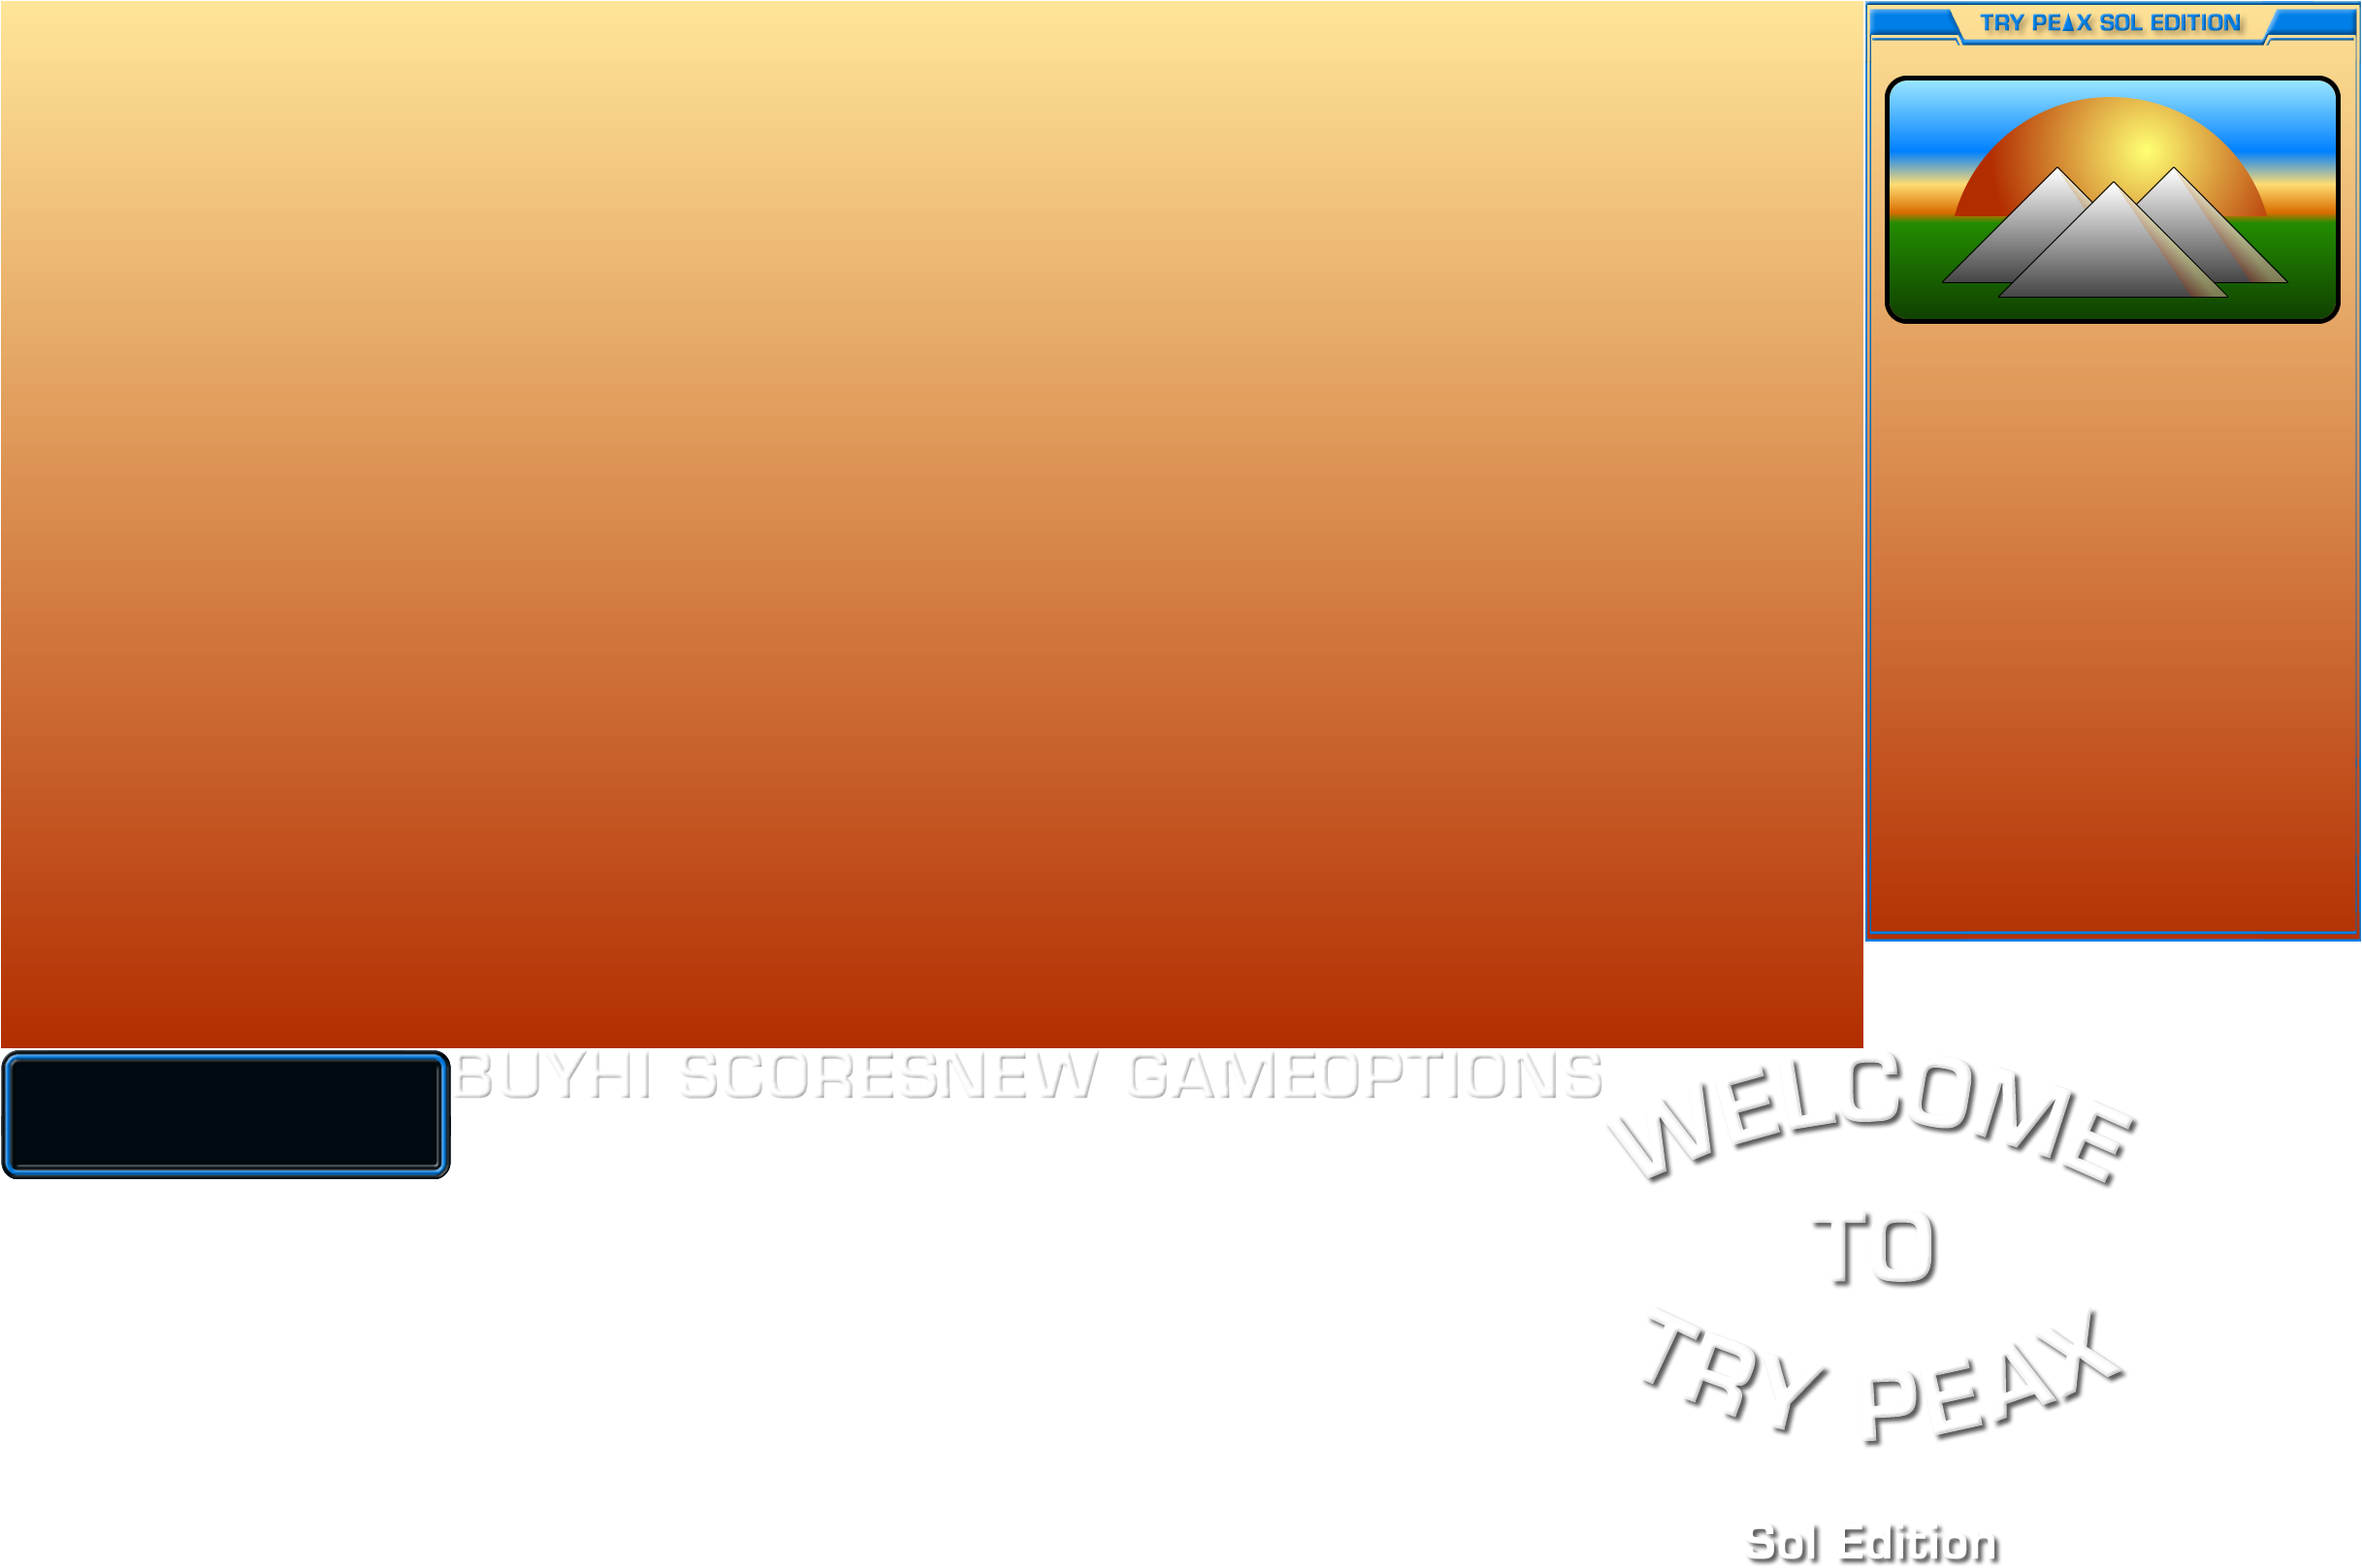
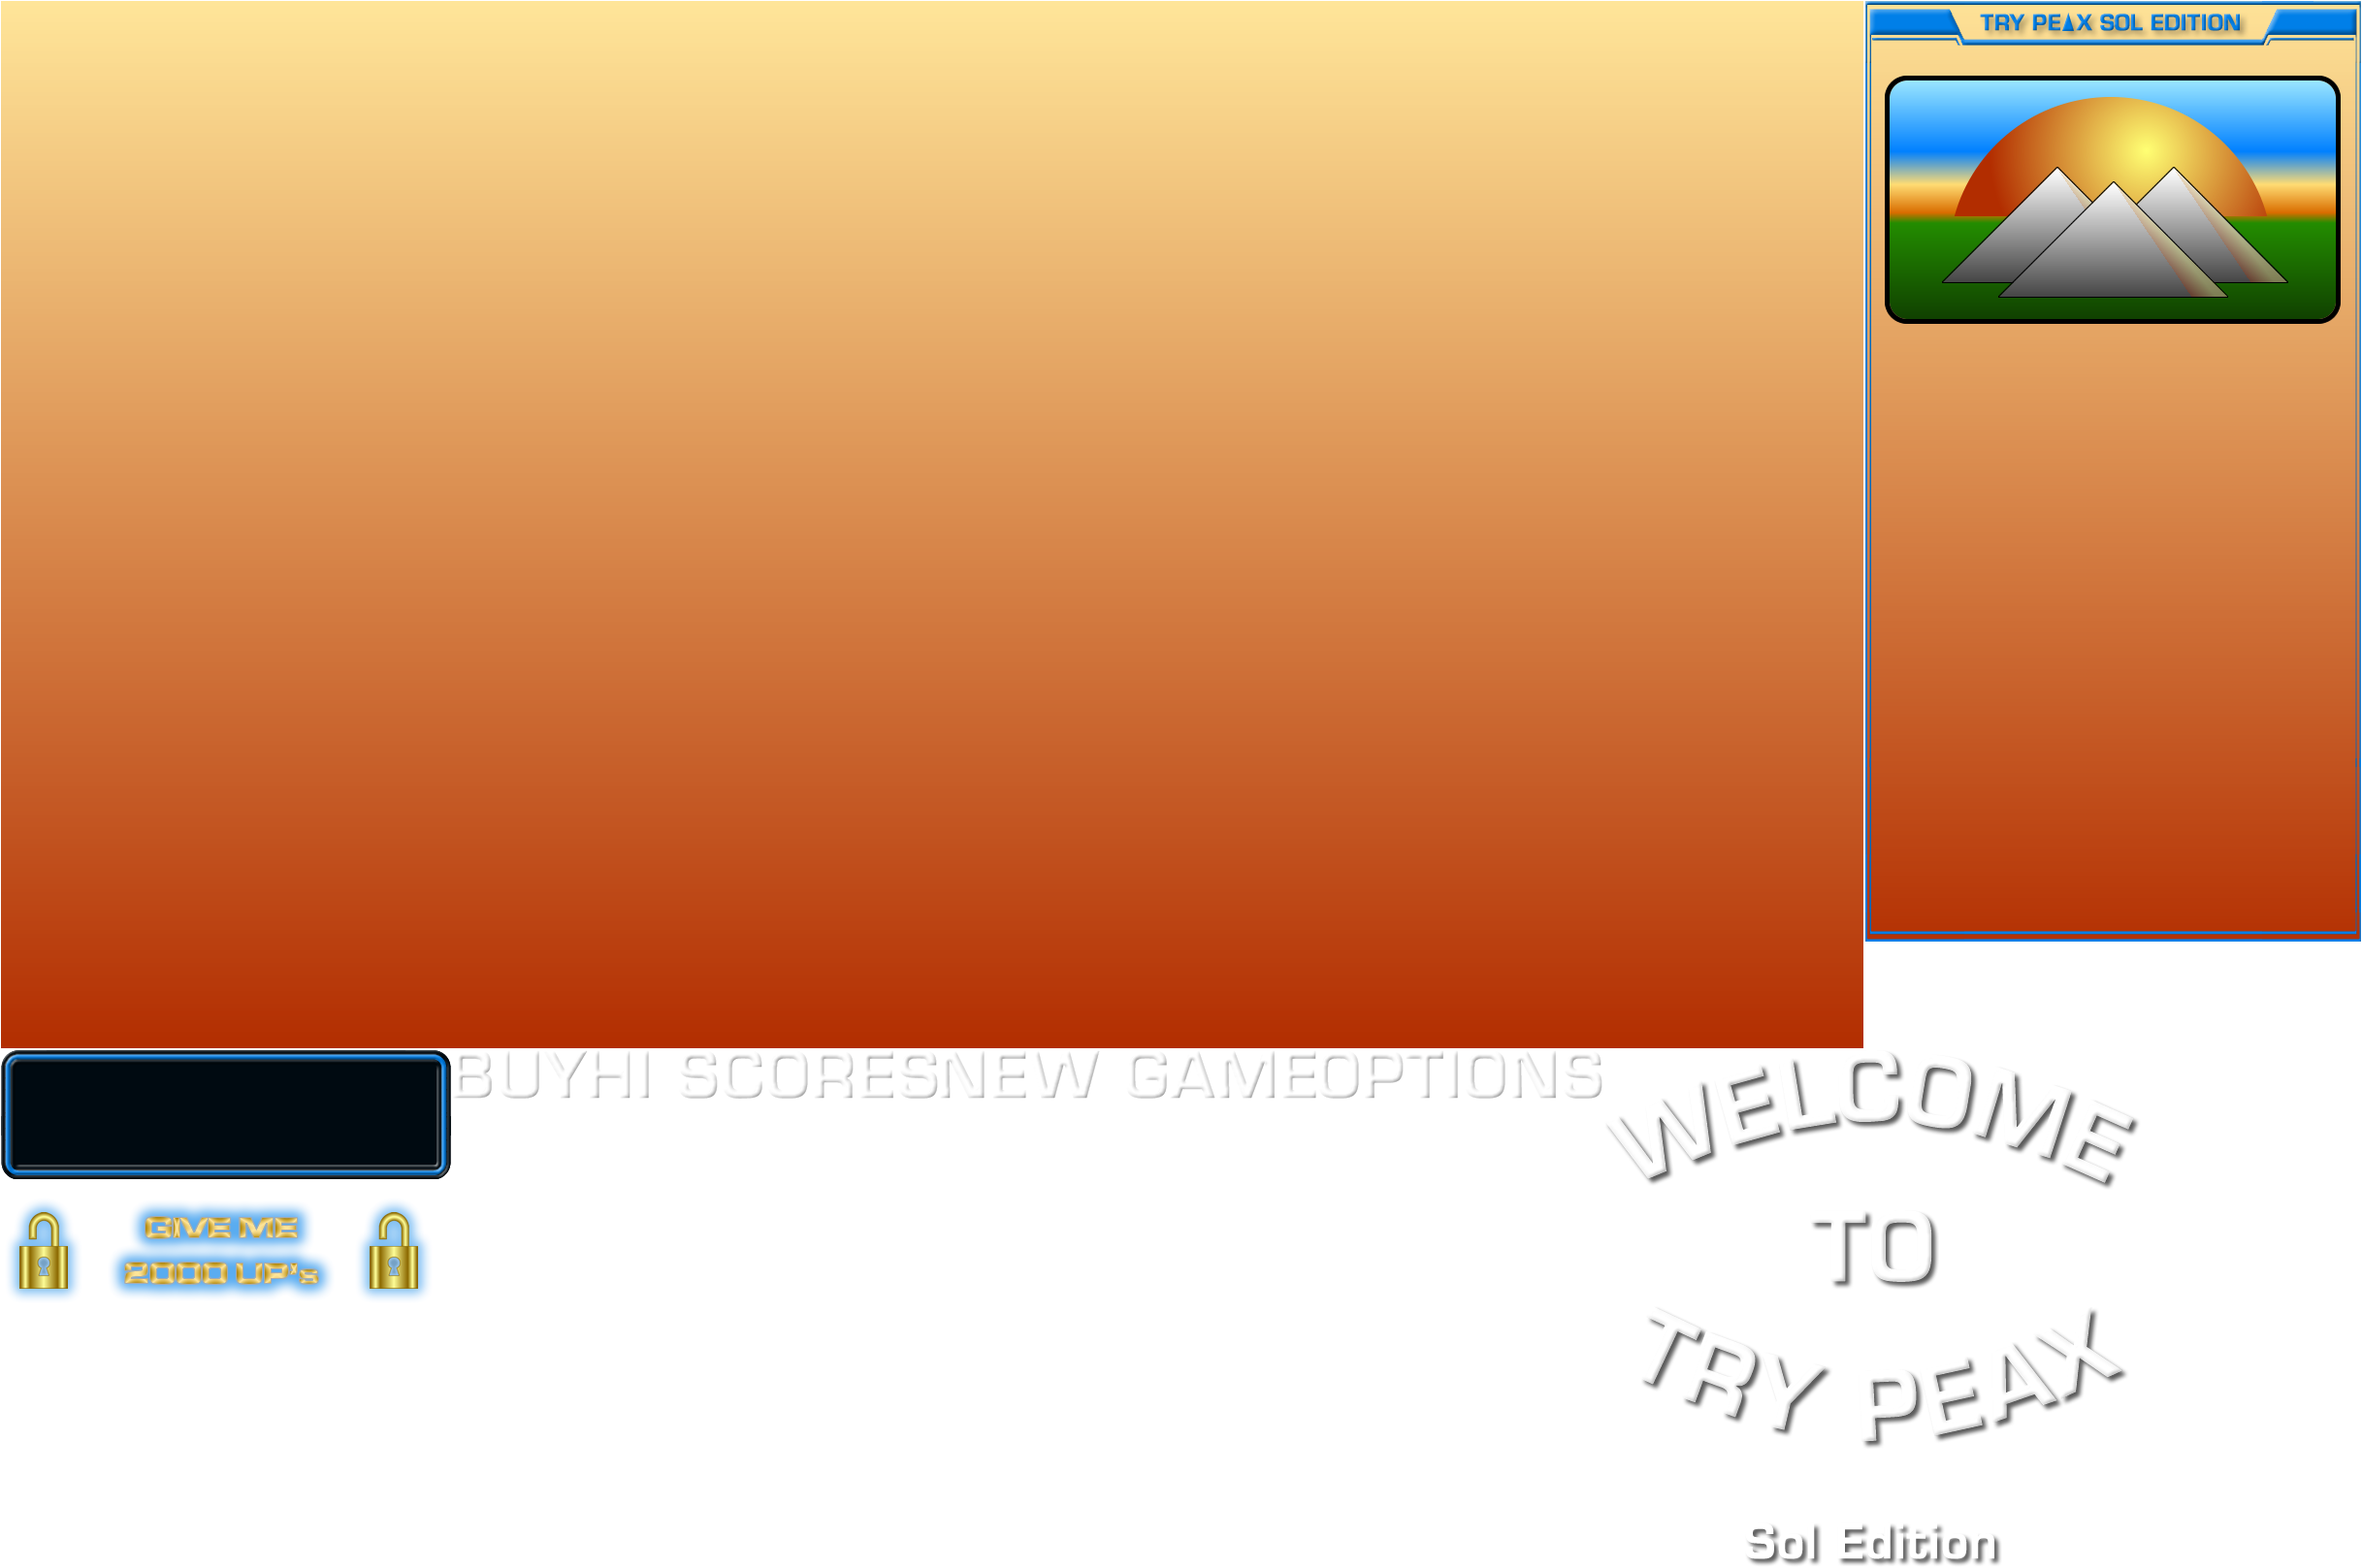
Rev 082

Changed region(s): [[0.0, 0.7421, 0.1873, 0.8349]]

diff --git a/js/vars.js b/js/vars.js
@@ -1,7 +1,7 @@
 "use strict";
 var vars = {
     version: 0.99,
-    revision: 'rev 077.008',
+    revision: 'rev 082.008',
     // rev [aaa].[bbb] where [bbb] is the sub revision with regards to speeding up the game on phones
     revisionInfo: [
         'Beta State: Unlocks are now fully set up. Still to implement switching card sets. Tints work though :)',
@@ -74,6 +74,10 @@ var vars = {
         'Revision 076   - Added lS function to generate unlock id',
         'Revision 077   - Added animated buttons (prev/next) on high score page',
         'Revision 078   - Fixed minor bug when dealing with cursor keys',
+        'Revision 079   - The vanity screen was originally going to have a colour fade on the white parts of the logo. But, phones really dont like updating the hue every frame. So, its been replaced with a new shiny gold and silver logo :)',
+        'Revision 080   - Added the options screens main buttons to the list of availables so I can enable closing the options page with the escape key',
+        'Revision 081   - Escape key works on all pages apart from mainScreen.',
+        'Revision 082   - Left and right keys now works on all pages with multiple sub pages (unlockeds/unlocks, hs)',
 
         'SPEED UP REVISIONS (mainly for phones)',
         'Revision 001   - Started speeding everything up. Removed crossfades for phones as theyre pretty slow',
@@ -1691,16 +1695,24 @@ var vars = {
                 console.log(`%cEscaped pressed...`, 'color: #44b5cc');
                 let onTop = vars.input.cursor.getCurrentlyOnTop();
                 if (onTop==='highScoreTable') { // high score table visible, hide it
-                    console.log(`  > Hiding high score table`);
-                    // we have to figure out why the high score table is visible
-                    // was it due to looping?
-                    // was it after the player got a high score?
-                    // was it because the player specifically asked for the high score table? -> back to mainScreen
+                    vars.DEBUG ? console.log(`  > Hiding high score table`) : null;
+                    let gameObject = vars.containers.getByName(onTop).getByName('close_HSTB');
+                    vars.input.highScoreTableButtonClick(gameObject);
+                    return true;
                 } else if (onTop==='gamePlayingUI') {
                     console.log(`  > Asking player if they want to go home (main screen)`);
                 } else if (onTop.startsWith('scroller_')) {
                     console.log(`  > Hiding the scroller`);
+                    // this should be a check! TODO
+                    vars.scrollers.available.Rules.click(`SCRL_close`);
+                    return true;
+                } else if (onTop==='optionsScreen') {
+                    let gO = { name: 'options_close'};
+                    vars.input.optionsClick(gO);
+                    return true;
                 };
+
+                return false;
             },
 
             findTheNearestCardToTheClickedOnOne: (_cName,_delay=false)=> { // KEYBOARD: used when clicking on a
@@ -1955,6 +1967,16 @@ var vars = {
                             if (!nextButton.visible || !nextButton.alpha) return false;
                             vars.game.scoreCard.showHighScorePage(false);
                             return true;
+                        } else if (onTop==='optionsScreen') {
+                            // check which containers visible
+                            let uL = vars.game.unlockables;
+                            let ulContainers = uL.containers;
+                            if (ulContainers.options.visible && ulContainers.options.alpha) {
+                                uL.optionsShowPage(false);
+                            } else {
+                                uL.optionsShowPageULD(false);
+                            };
+                            return true;
                         };
                     break;
 
@@ -1965,6 +1987,16 @@ var vars = {
                             let nextButton = container.getByName('nextPage_HSTB');
                             if (!nextButton.visible || !nextButton.alpha) return false;
                             vars.game.scoreCard.showHighScorePage(true);
+                            return true;
+                        } else if (onTop==='optionsScreen') {
+                            // check which containers visible
+                            let uL = vars.game.unlockables;
+                            let ulContainers = uL.containers;
+                            if (ulContainers.options.visible && ulContainers.options.alpha) {
+                                uL.optionsShowPage(true);
+                            } else {
+                                uL.optionsShowPageULD(true);
+                            };
                             return true;
                         };
                     break;
@@ -2226,7 +2258,16 @@ var vars = {
                     return true;
                 };
 
-            }
+                if (gameObject.name==='MS_buy') {
+                    if (vars.localStorage.unlocked) { // game has been bought, give 2000UPs
+                        vars.game.unlockPoints += 2000;
+                        vars.game.unlockables.updateUIUnlockPoints();
+                    } else {
+                        vars.DEBUG ? console.log(`BUY button doesnt currently do anything. Itll eventually allow you to buy the game for £1.99`) : null;
+                    };
+                    return true;
+                };
+            };
 
             if (gameObject.name==='WD_enterName') { // WELL DONE SCREEN button
                 iV.enableInput(false,200);
@@ -3366,12 +3407,17 @@ var vars = {
 
             let y = cC.cY-50;
             let buttons = ['newGame','hiScores','options', 'buy'];
-            unlocked ? buttons.pop() : null;
             buttons.forEach((_key)=> {
                 let buttonBG = scene.add.image(cC.width*0.75, y, 'mainScreen', 'buttonBG').setName(`MS_${_key}`).setAlpha(0).setDepth(depth-1).setInteractive();
                 pageButtons[screenName].push(`MS_${_key}`);
                 vars.UI.tempUIObjects.push(buttonBG);
-                let buttonText = scene.add.image(cC.width*0.75, y, 'mainScreen', `${_key}Text`).setName(`MST_${_key}Text`).setAlpha(0).setDepth(depth);
+
+                let buttonText;
+                if (_key==='buy' && vars.localStorage.unlocked) {
+                    buttonText = scene.add.image(cC.width*0.75, y, 'mainScreen', `boughtText`).setName(`MST_boughtText`).setAlpha(0).setDepth(depth);
+                } else {
+                    buttonText = scene.add.image(cC.width*0.75, y, 'mainScreen', `${_key}Text`).setName(`MST_${_key}Text`).setAlpha(0).setDepth(depth);
+                };
                 vars.UI.tempUIObjects.push(buttonText);
                 
                 container.add([buttonBG,buttonText]);
@@ -3391,7 +3437,7 @@ var vars = {
                 container.setAlpha(0).setDepth(consts.depths.dailyBonus);
                 let bg = scene.add.image(cC.cX,cC.cY,'whitepixel').setScale(cC.width,cC.height).setTint(0x0).setAlpha(0.9).setName('dailyBonusBG').setInteractive();
                 let bonusImage = scene.add.image(cC.cX,cC.cY,'dailyBonusImage');
-                let bonusText = scene.add.bitmapText(cC.cX,cC.cY,'defaultFont','250 UPs',128,1).setName(`bonusTextBouncing`).setOrigin(0.5).setTint(consts.tints.orange);
+                let bonusText = scene.add.bitmapText(cC.cX,cC.cY,'defaultFont','250 UPs',128,1).setDropShadow(6,6).setName(`bonusTextBouncing`).setOrigin(0.5).setTint(consts.tints.orange);
 
                 container.add([bg,bonusImage,bonusText]);
 
@@ -3460,16 +3506,23 @@ var vars = {
             // currently KB is NOT supported! (too much stuff on the page)
             // get the loaded options
             let mO = vars.localStorage.options.music;
-            let container = scene.containers.optionsScreen;
+            let screenName = 'optionsScreen';
+            let container = scene.containers[screenName];
+
+            // set up page buttons
+            let iV = vars.input;
+            let pageButtons = iV.pageButtons;
+            pageButtons[screenName] = [];
 
             let cC = consts.canvas;
-            let optionsBG = scene.add.image(cC.cX,cC.cY,'optionsBG').setName('optionsBG');
+            let optionsBG = scene.add.image(cC.cX,cC.cY,'optionsBG').setName(screenName);
 
             container.add(optionsBG);
 
             // HEADERS
             let optionsHeader = scene.add.image(330,155,'ui','optionsHeader');
-            let unlockSwapButton = scene.add.image(805,155,'ui','changeUnlockTypeIcon').setName('unlockablesHeader_button').setInteractive();
+            let unlockSwapButton = scene.add.image(805,155,'ui','changeUnlockTypeIcon').setName('unlockablesHeader_button').setInteractive(); // we add this button after the play/on/off buttons
+            pageButtons[screenName].push('unlockablesHeader_button');
             unlockSwapButton.on('pointerup', vars.input.switchVisibleUnlocksContainer);
             let unlockablesHeader = scene.add.image(865,155,'ui','unlockablesHeader').setName('unlockablesHeader').setOrigin(0,0.5).setInteractive();
             unlockablesHeader.on('pointerup', vars.input.switchVisibleUnlocksContainer);
@@ -3490,10 +3543,14 @@ var vars = {
             for (let t=0; t<6; t++) {
                 let alphaYes = mO[`track${t+1}`] ? 1 : 0;
                 let alphaNo = alphaYes ? 0 : 1;
-                let play = scene.add.image(x-396, y + t*yInc, 'ui', 'playTrackIcon').setAlpha(1).setName(`options_track${t+1}_play`).setInteractive();
+                let pButtonName = `options_track${t+1}_play`;
+                let play = scene.add.image(x-396, y + t*yInc, 'ui', 'playTrackIcon').setAlpha(1).setName(pButtonName).setInteractive();
+                pageButtons[screenName].push(pButtonName);
                 let trackText = scene.add.image(x-205, y + t*yInc, 'ui', `track${t+1}Header`).setName(`options_track${t+1}_header`);
                 let off = scene.add.image(x, y + (t*yInc),'ui','noIcon').setAlpha(alphaNo).setName(`options_track${t+1}_off`).setInteractive();
                 let on = scene.add.image(x, y + (t*yInc),'ui','yesIcon').setAlpha(alphaYes).setName(`options_track${t+1}_on`).setInteractive();
+                // we only add one of these buttons
+                pageButtons[screenName].push(`options_track${t+1}_on`);
                 group.addMultiple([off,on]);
                 container.add([play,off,on,trackText]);
                 alphaYes ? enabled.push(t+1) : null;
@@ -3526,6 +3583,7 @@ var vars = {
 
             // CLOSE OPTIONS BUTTON
             let close = scene.add.image(cC.width-10, cC.height-10, 'ui', 'closeOptionsIcon').setOrigin(1,1).setName('options_close').setInteractive();
+            pageButtons[screenName].push('options_close');
             container.add(close);
 
             // update this container to show current volume

diff --git a/js/update.js b/js/update.js
@@ -85,7 +85,10 @@ vars.update = {
         let hue = _hue/360;
         let colour = Phaser.Display.Color.HSLToColor(hue,1,0.5).color;
         let container = scene.containers.mainScreen;
-        ['newGame','hiScores','options', 'buy'].forEach((_key)=> { container.getByName(`MST_${_key}Text`).setTint(colour); });
+        let buttonNames =  ['newGame','hiScores','options'];
+        
+        !vars.localStorage.unlocked ? buttonNames.push('buy') : null;
+        buttonNames.forEach((_key)=> { container.getByName(`MST_${_key}Text`).setTint(colour); });
         return;
     },
 

diff --git a/js/consts.js b/js/consts.js
@@ -78,7 +78,7 @@ const consts = {
 
     pageButtons: {
         mainScreen: 'MS_newGame', NGOptions: 'NG_NEWDEAL_button_ui', playerLose: 'NG_NEWDEAL_Button_ui', wellDone: 'WD_enterName',
-        scrollers: 'SCRL_x1', highScoreTable: 'times_HSTB', 
+        scrollers: 'SCRL_x1', highScoreTable: 'times_HSTB', optionsScreen: 'unlockablesHeader_button'
     },
 
     timeRadix: 32,

diff --git a/js/classes/Deck.js b/js/classes/Deck.js
@@ -96,8 +96,7 @@ let Deck = class {
         let duration = 250;
         let totalDuration = duration * cardCount;
         scene.tweens.addCounter({
-            from: 0,
-            to: 1,
+            from: 0, to: 1,
             duration: totalDuration,
             onComplete: ()=> {
                 let score = this.playerScore; let time = vars.game.deal.currentTime;
